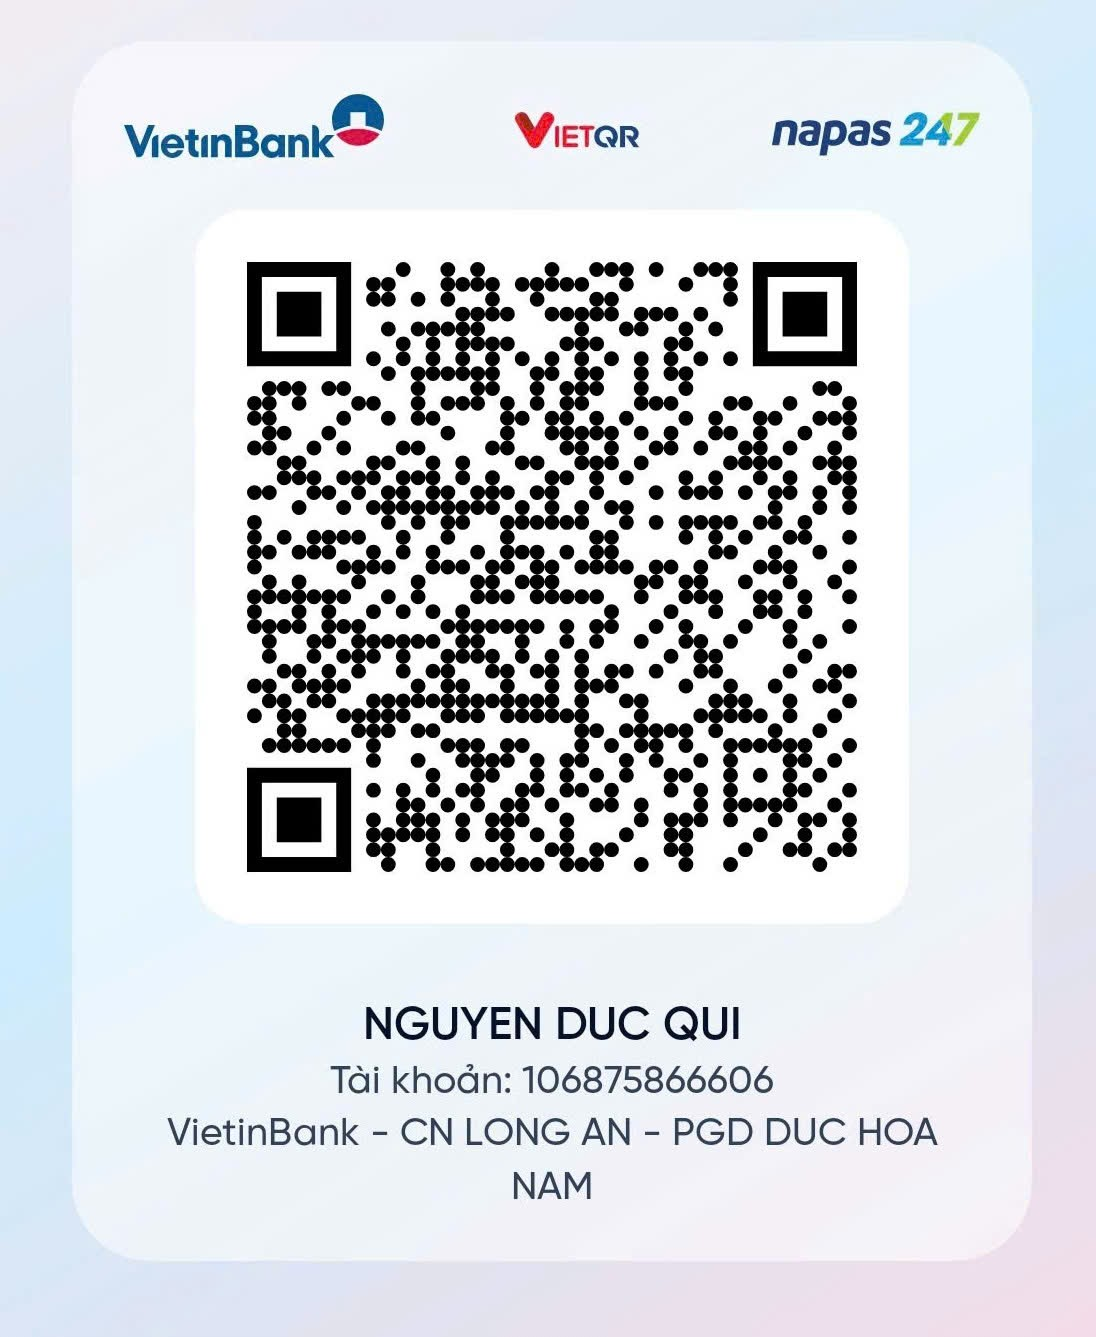
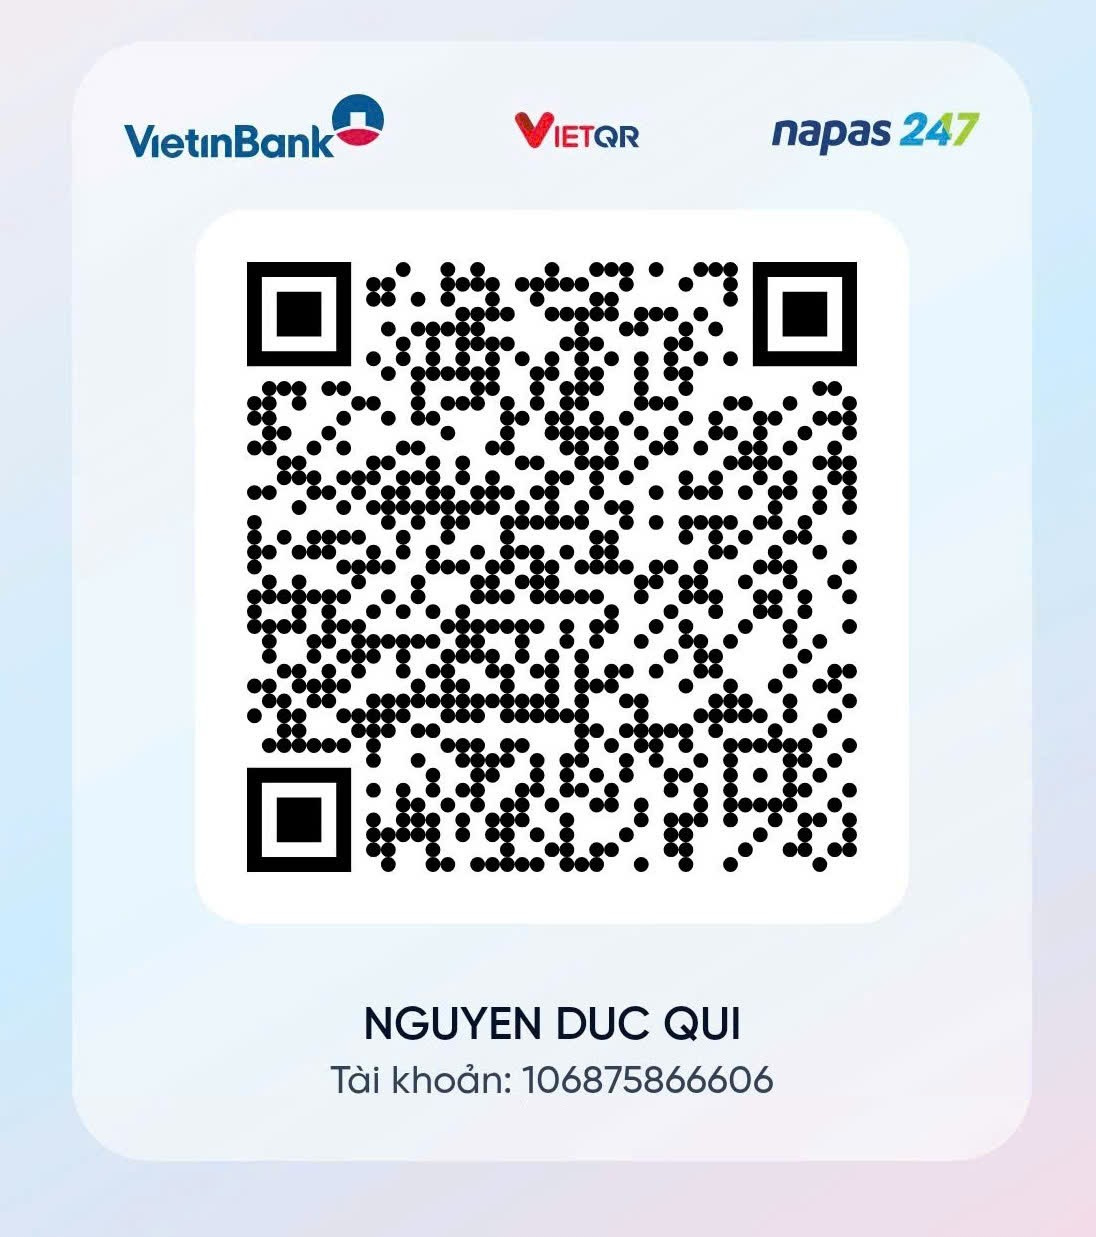
Drop the branch line from the support QR image
The bank card image below the QR code now shows only the account holder
and the account number. The QR payload is unchanged (decoded and compared
with the original).

diff --git a/src/main/pages/Support.svelte b/src/main/pages/Support.svelte
@@ -24,7 +24,7 @@
   <p class="lead">Nếu bạn muốn ủng hộ tác giả để có kinh phí làm thêm những dự án phi lợi nhuận có ích cho cộng đồng trong tương lai.</p>
 
   <figure class="card qr">
-    <img src="/support/bank-qr.jpg" alt="Mã VietQR tài khoản VietinBank 106875866606" width="1096" height="1337" />
+    <img src="/support/bank-qr.jpg" alt="Mã VietQR tài khoản VietinBank 106875866606" width="1096" height="1237" />
     <figcaption>
       <div class="section-title">Số tài khoản ngân hàng</div>
       <div class="row acct">
